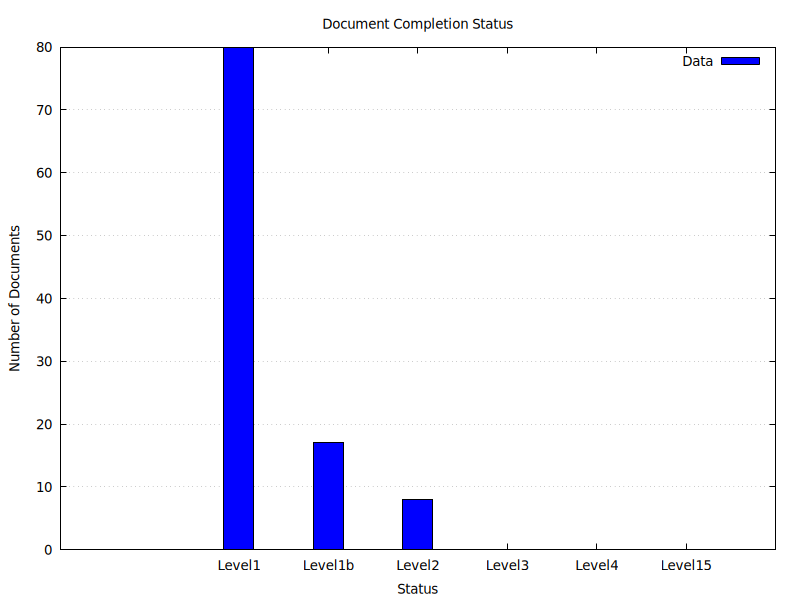
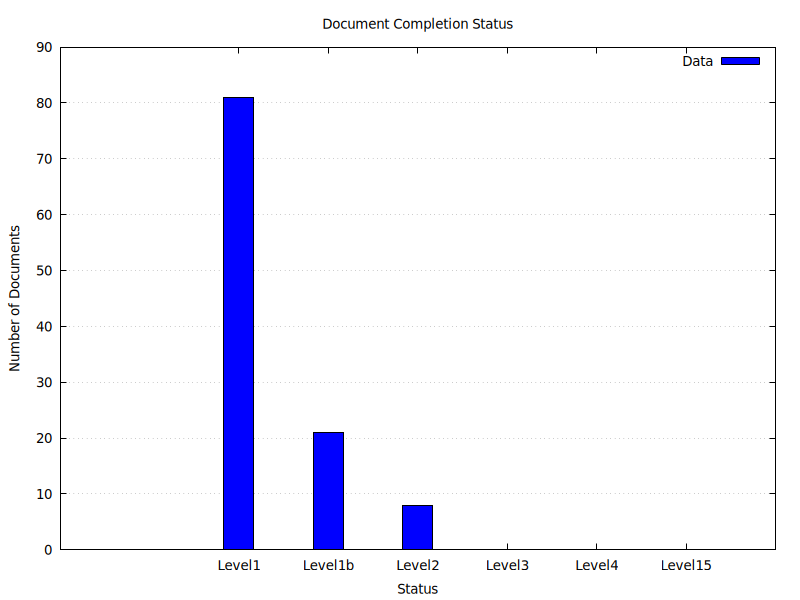
working on flight recorders

diff --git a/docs/docs/GeneratedFileStatus.md b/docs/docs/GeneratedFileStatus.md
@@ -2,10 +2,40 @@
 author: Generated File
 status: Level5
 ---
+## Level1b
+
+| File | Word Count |
+|------|------------|
+| [../docs/Applications.FlightRecorder.MemoryLeak.document.md](../docs/Applications.FlightRecorder.MemoryLeak.document.md)  | 211|
+| [../docs/Architecture.Action.Explanation.document.md](../docs/Architecture.Action.Explanation.document.md)  | 124|
+| [../docs/Architecture.Components.FiltersAndRouters.document.md](../docs/Architecture.Components.FiltersAndRouters.document.md)  | 44|
+| [../docs/Architecture.Components.Observer.InProcess.document.md](../docs/Architecture.Components.Observer.InProcess.document.md)  | 53|
+| [../docs/Architecture.Components.Observer.Kernel.document.md](../docs/Architecture.Components.Observer.Kernel.document.md)  | 68|
+| [../docs/Architecture.Components.Streaming.Observability.document.md](../docs/Architecture.Components.Streaming.Observability.document.md)  | 59|
+| [../docs/Architecture.FlightRecorder.Overview.document.md](../docs/Architecture.FlightRecorder.Overview.document.md)  | 811|
+| [../docs/Architecture.FlightRecorder.ShortHorizons.document.md](../docs/Architecture.FlightRecorder.ShortHorizons.document.md)  | 587|
+| [../docs/Architecture.KeyConstructs.Overview.document.md](../docs/Architecture.KeyConstructs.Overview.document.md)  | 174|
+| [../docs/Architecture.Overview.document.md](../docs/Architecture.Overview.document.md)  | 210|
+| [../docs/PositionPaper.DeliveryGuarantees.document.md](../docs/PositionPaper.DeliveryGuarantees.document.md)  | 163|
+| [../docs/PositionPaper.DynamicTelemetryTenets.document.md](../docs/PositionPaper.DynamicTelemetryTenets.document.md)  | 67|
+| [../docs/PositionPaper.FileAndStreaming.document.md](../docs/PositionPaper.FileAndStreaming.document.md)  | 227|
+| [../docs/PositionPaper.SharingDataAmongStakeHoldersIsHard.document.md](../docs/PositionPaper.SharingDataAmongStakeHoldersIsHard.document.md)  | 171|
+| [../docs/PositionPaper.TelemetryUmbilical.document.md](../docs/PositionPaper.TelemetryUmbilical.document.md)  | 95|
+| [../docs/Scenarios.Overview.CostReduction.document.md](../docs/Scenarios.Overview.CostReduction.document.md)  | 1368|
+| [../docs/Scenarios.Overview.DeepDiagnostics.document.md](../docs/Scenarios.Overview.DeepDiagnostics.document.md)  | 577|
+| [../docs/Scenarios.Overview.document.md](../docs/Scenarios.Overview.document.md)  | 180|
+| [../docs/Scenarios.Overview.DurableDashboards.Alerts.document.md](../docs/Scenarios.Overview.DurableDashboards.Alerts.document.md)  | 552|
+| [../docs/Scenarios.Overview.RedactingSecrets.document.md](../docs/Scenarios.Overview.RedactingSecrets.document.md)  | 996|
+| [../docs/Scenarios.Overview.Reliability.document.md](../docs/Scenarios.Overview.Reliability.document.md)  | 2310|
+
+
 ## Level1
 
 | File | Word Count |
 |------|------------|
+| [../docs/Applications.FlightRecorder.PriorToCrash.document.md](../docs/Applications.FlightRecorder.PriorToCrash.document.md)  | 252|
+| [../docs/Applications.InterestingApplications.document.md](../docs/Applications.InterestingApplications.document.md)  | 10|
+| [../docs/Applications.Overview.InterestingApplications.document.md](../docs/Applications.Overview.InterestingApplications.document.md)  | 7|
 | [../docs/Architecture.Action.ConfigCollection.document.md](../docs/Architecture.Action.ConfigCollection.document.md)  | 10|
 | [../docs/Architecture.Action.CPUSample.document.md](../docs/Architecture.Action.CPUSample.document.md)  | 10|
 | [../docs/Architecture.Action.FileCollection.document.md](../docs/Architecture.Action.FileCollection.document.md)  | 10|
@@ -26,11 +56,9 @@ status: Level5
 | [../docs/Architecture.DesignPatterns.Toggles.document.md](../docs/Architecture.DesignPatterns.Toggles.document.md)  | 10|
 | [../docs/Architecture.DesignPatterns.Triggers.document.md](../docs/Architecture.DesignPatterns.Triggers.document.md)  | 10|
 | [../docs/Architecture.DesignPatterns.Valves.document.md](../docs/Architecture.DesignPatterns.Valves.document.md)  | 10|
+| [../docs/Architecture.FlightRecorder.CubbyHole.document.md](../docs/Architecture.FlightRecorder.CubbyHole.document.md)  | 7|
 | [../docs/Architecture.FlightRecorder.LongHorizons.document.md](../docs/Architecture.FlightRecorder.LongHorizons.document.md)  | 7|
-| [../docs/Architecture.FlightRecorder.MediumHorizons.document.md](../docs/Architecture.FlightRecorder.MediumHorizons.document.md)  | 7|
-| [../docs/Architecture.FlightRecorder.Overview.document.md](../docs/Architecture.FlightRecorder.Overview.document.md)  | 21|
-| [../docs/Architecture.FlightRecorder.ShortHorizons.document.md](../docs/Architecture.FlightRecorder.ShortHorizons.document.md)  | 7|
-| [../docs/Architecture.FlightRecorder.TraceHorizons.document.md](../docs/Architecture.FlightRecorder.TraceHorizons.document.md)  | 7|
+| [../docs/Architecture.FlightRecorder.TraceHorizons.document.md](../docs/Architecture.FlightRecorder.TraceHorizons.document.md)  | 10|
 | [../docs/Architecture.Probe.Breakpoint.document.md](../docs/Architecture.Probe.Breakpoint.document.md)  | 97|
 | [../docs/Architecture.Probe.DTrace.document.md](../docs/Architecture.Probe.DTrace.document.md)  | 18|
 | [../docs/Architecture.Probe.eBPF.document.md](../docs/Architecture.Probe.eBPF.document.md)  | 13|
@@ -86,29 +114,6 @@ status: Level5
 | [../docs/Scenarios.ExtractingMemoryWithUProbe.document.md](../docs/Scenarios.ExtractingMemoryWithUProbe.document.md)  | 15|
 | [../docs/Scenarios.MemoryLeak.document.md](../docs/Scenarios.MemoryLeak.document.md)  | 17|
 | [../docs/Slides.Overview.Presentation.md](../docs/Slides.Overview.Presentation.md)  | 378|
-
-
-## Level1b
-
-| File | Word Count |
-|------|------------|
-| [../docs/Architecture.Action.Explanation.document.md](../docs/Architecture.Action.Explanation.document.md)  | 124|
-| [../docs/Architecture.Components.Observer.InProcess.document.md](../docs/Architecture.Components.Observer.InProcess.document.md)  | 53|
-| [../docs/Architecture.Components.Observer.Kernel.document.md](../docs/Architecture.Components.Observer.Kernel.document.md)  | 68|
-| [../docs/Architecture.Components.Streaming.Observability.document.md](../docs/Architecture.Components.Streaming.Observability.document.md)  | 59|
-| [../docs/Architecture.KeyConstructs.Overview.document.md](../docs/Architecture.KeyConstructs.Overview.document.md)  | 174|
-| [../docs/Architecture.Overview.document.md](../docs/Architecture.Overview.document.md)  | 210|
-| [../docs/PositionPaper.DeliveryGuarantees.document.md](../docs/PositionPaper.DeliveryGuarantees.document.md)  | 163|
-| [../docs/PositionPaper.DynamicTelemetryTenets.document.md](../docs/PositionPaper.DynamicTelemetryTenets.document.md)  | 67|
-| [../docs/PositionPaper.FileAndStreaming.document.md](../docs/PositionPaper.FileAndStreaming.document.md)  | 227|
-| [../docs/PositionPaper.SharingDataAmongStakeHoldersIsHard.document.md](../docs/PositionPaper.SharingDataAmongStakeHoldersIsHard.document.md)  | 171|
-| [../docs/PositionPaper.TelemetryUmbilical.document.md](../docs/PositionPaper.TelemetryUmbilical.document.md)  | 95|
-| [../docs/Scenarios.Overview.CostReduction.document.md](../docs/Scenarios.Overview.CostReduction.document.md)  | 1368|
-| [../docs/Scenarios.Overview.DeepDiagnostics.document.md](../docs/Scenarios.Overview.DeepDiagnostics.document.md)  | 577|
-| [../docs/Scenarios.Overview.document.md](../docs/Scenarios.Overview.document.md)  | 180|
-| [../docs/Scenarios.Overview.DurableDashboards.Alerts.document.md](../docs/Scenarios.Overview.DurableDashboards.Alerts.document.md)  | 552|
-| [../docs/Scenarios.Overview.RedactingSecrets.document.md](../docs/Scenarios.Overview.RedactingSecrets.document.md)  | 996|
-| [../docs/Scenarios.Overview.Reliability.document.md](../docs/Scenarios.Overview.Reliability.document.md)  | 2310|
 
 
 ## Level2

diff --git a/docs/docs/Architecture.FlightRecorder.LongHorizons.document.md b/docs/docs/Architecture.FlightRecorder.LongHorizons.document.md
@@ -2,3 +2,64 @@
 author: "Chris Gray"
 status: ReviewLevel1
 ---
+
+# Long Horizon Flight Recorder
+
+A Long Horizon Flight Recorder is a specialized type of flight recorder designed to study long-running issues that are typically very difficult to understand and capture.
+For example, imagine a long-running asynchronous operation that takes hours or days to complete, such as writing the entirety of a large tape or managing client operating system metadata attached to a long-running Bluetooth connection.
+
+In these situations, you would prefer not to emit all of the logging into the back ends due to volume, data costs, and potential security and privacy concerns.
+
+Instead, you'd like to have verbose logging localized to a particular transaction, but only collect / harvest this logging should that transaction fail.
+
+Using a combination of [Probes](./Architecture.Probes.Overview.document.md) that log into a Long Horizon flight recorder and [Actions](./Architecture.Action.Explanation.document.md) that initiate the egress of that recorder upon transaction failure, very interesting and novel diagnostic situations can often be created.
+
+We often call these ["nets"](./PositionPaper.ProceduralizeNets.document.md) as an analogy to fishing, where a net is cast over the side of a boat and collects only what is too big to fit through the net (e.g., the action).
+
+
+## Criteria (and differentiators from 'Long Horizons')
+
+Just like a Short Horizon Flight Recorder. Or really any flight recorder. There's no preset criteria to differentiate them. The primary purpose in having a long and a short horizon flight recorder is to initiate a conversation about how this recorder will be used in practice.
+
+Typically a Long Horizon Flight Recorder will
+Have.
+
+1. A large memory buffer.
+1. A very restrictive filter. That is very selective in what is captured.
+
+
+## Something to consider when using a Long Horizon flight recorder in a cloud based system.
+
+A keen observer may realize that the value proposition of a Long Horizon flight recorder in a cloud system may not be very significant. This is true because a Long Horizon flight recorder has a very restrictive filter on the logs that are placed into the flight recorder. By design, the flight recorder will not be very chatty and therefore may be suitable for immediate streaming using standard stream-based telemetry.
+
+Without question, a Long Horizon flight recorder is not something every engineer utilizes in their day-to-day work. It is a specialized tool designed for specific scenarios where long-running processes need detailed logging and diagnostics. Its use is typically reserved for complex systems where understanding and troubleshooting extended operations is crucial.
+
+However, this does not mean that a Long Horizon flight recorder is of no value. There are some situations where it can be beneficial:
+
+1. When a Long Horizon flight recorder is dynamically [created and triggered](./Architecture.Action.FlightRecorder.document.md) based on the starting and stopping of a transaction. In this case, there are many Long Horizon flight recorders, and the sum of all would be prohibitive to emit.
+2. In an operating system, where it is considered best practice to emit very little telemetry that is not of a diagnostic nature.
+
+
+This likely will not be the case in aAn operating system.
+
+
+## Sample Applications
+
+1. Following long running transactions, where logs are only desirable should the transaction fails
+1. Long running sessions;  bluetooth, TCP, etc
+
+Long Horizon Flight Recorders are ideally suited for diagnosing problems that develop gradually over extended periods or under complex, long-running conditions. They capture logs and metrics selectively, focusing on events important for troubleshooting systemic issues that wouldnt manifest in real-time. As a result, they can be a powerful complement to Short Horizon Flight Recorders when an organization needs both short-term bursts of data collection and deeper, continuous insight.
+
+**Common Use Cases**
+- Monitoring days-long or multi-week processes where intermittent bugs may crop up.
+- Collecting critical trace points for applications performing bulk data operations (like large file syncs, or tape transactions).
+- Capturing persistent system logs for embedded or industrial software that runs 24/7.
+
+By limiting their scope to just the essential data, Long Horizon recorders help organizations avoid overwhelming (or undesirable) storage costs while still offering critical coverage. They also provide a "rolling window" of vital analytics, maintaining an ongoing record to pinpoint when and why an anomaly occurred.
+
+**When You Should Consider a Long Horizon Flight Recorder**
+- You need historical context that spans multiple machine states or workflow phases.
+- You're operating in an environment requiring strict cost management but still need essential traces for in-depth root cause analysis.
+- You have a pipeline of analytics jobs that need periodic or event-based data snapshots over days or weeks.
+
+They may not be the default choice for every developer, but in the right circumstances, Long Horizon Flight Recorders offer unmatched visibility into hidden or slow-growing system behaviors. By tuning logs and collection intervals carefully, teams can strike the right balance between detail and performance overhead.

diff --git a/docs/docs/Architecture.FlightRecorder.ShortHorizons.document.md b/docs/docs/Architecture.FlightRecorder.ShortHorizons.document.md
@@ -9,7 +9,7 @@ Short Horizon Flight Recorder is a focused logging strategy designed to capture 
 over a long time span, it employs broad and loosely filtered logs to collect as much
 logging as possible For several minutes leading into a problem. . Its approach emphasizes gathering as much telmeetyr as possible, for a few minutes prior to a failure - which can be particularly useful when probing difficult-to-reproduce bugs.
 
-By capturing high-volume telemetry right before events like crashes or lockups, the Short Horizon recorder streamlines failure analysis. It empowers engineering teams to isolate race conditions, examine deadlocks, or retrieve critical logs without excessive overhead or wasted storage. This targeted method contrasts with “Long Horizons,” which rely on more extended data retention  (with less telemetry volume), for root cause analysis.
+By capturing high-volume telemetry right before events like crashes or lockups, the Short Horizon recorder streamlines failure analysis. It empowers engineering teams to isolate race conditions, examine deadlocks, or retrieve critical logs without excessive overhead or wasted storage. This targeted method contrasts with "Long Horizons" which rely on more extended data retention  (with less telemetry volume), for root cause analysis.
 
 Adopting a Short Horizon approach offers operational benefits and an extra layer of confidence.
 

diff --git a/docs/docs/Architecture.FlightRecorder.Overview.document.md b/docs/docs/Architecture.FlightRecorder.Overview.document.md
@@ -5,6 +5,8 @@ status: ReviewLevel1b
 
 # Flight Recorder Overview
 
+![](../orig_media/FlightRecorders.banner.png/)
+
 A Flight Recorder is an alternative and compliment to standard
 [Streaming](./PositionPaper.FileAndStreaming.document.md) Observability.
 

diff --git a/docs/docs/Architecture.Action.FlightRecorder.document.md b/docs/docs/Architecture.Action.FlightRecorder.document.md
@@ -3,4 +3,9 @@ author: "Chris Gray"
 status: ReviewLevel1
 ---
 
-# Coming Soon
+# Flight Recorder Action (Start / Stop) - COMING SOON
+
+1. Create a Flight Recorder, with an identifier
+1. Describe the Logs that should be recorded
+
+

diff --git a/docs/docs/PositionPaper.ProceduralizeNets.document.md b/docs/docs/PositionPaper.ProceduralizeNets.document.md
@@ -2,3 +2,7 @@
 author: "Chris Gray"
 status: ReviewLevel1
 ---
+
+# Procedural Nets
+
+![](../orig_media/NetFullOfBugs.png)

diff --git a/docs/docs/Architecture.FlightRecorder.TraceHorizons.document.md b/docs/docs/Architecture.FlightRecorder.TraceHorizons.document.md
@@ -2,3 +2,5 @@
 author: "Chris Gray"
 status: ReviewLevel1
 ---
+
+# Trace Horizon
